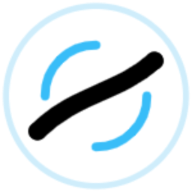
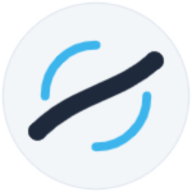
feat: update branding assets and metadata configuration
- Updated `logo.svg` with refined colors and styling.
- Replaced favicon and apple-touch-icon sources to use the SVG logo for better scalability.
- Added OpenGraph and Twitter metadata configuration including a preview image.
- Removed dark mode brightness/inversion filters from the logo in `page.tsx`.
- Updated various binary icon assets in the `public` directory.

Changed region(s): [[0.0, 0.0, 1.0, 1.0], [0.125, 0.25, 0.875, 0.75]]

diff --git a/app/[locale]/layout.tsx b/app/[locale]/layout.tsx
@@ -40,20 +40,34 @@ export async function generateMetadata({
   return {
     title: {
       template: "%s | Gratry Snow",
-      default: t('metadata_title'), 
+      default: t('metadata_title'),
     },
     description: t('metadata_desc'),
     keywords: ["snowboard", "gratry", "ground tricks", "flatland", "snowboarding", "平花", "滑雪", "單板"],
     icons: {
-      icon: '/gratry-snow/favicon.ico',
-      apple: '/gratry-snow/apple-touch-icon.png',
+      icon: '/gratry-snow/logo.svg',
+      apple: '/gratry-snow/logo.svg',
     },
     openGraph: {
       title: t('metadata_title'),
       description: t('metadata_desc'),
       type: "website",
       siteName: "Gratry Snow",
-    }
+      images: [
+        {
+          url: '/gratry-snow/og-image.svg', 
+          width: 1200,
+          height: 630,
+          alt: "Gratry Snow Preview",
+        },
+      ],
+    },
+    twitter: {
+      card: "summary_large_image",
+      title: t('metadata_title'),
+      description: t('metadata_desc'),
+      images: ['/gratry-snow/og-image.svg'],
+    },
   };
 }
 

diff --git a/app/[locale]/page.tsx b/app/[locale]/page.tsx
@@ -30,7 +30,7 @@ export default async function Home({
           alt="Gratry Snow Logo" 
           width={80} 
           height={80} 
-          className="mb-2 drop-shadow-md hover:scale-105 transition-transform duration-300 dark:brightness-0 dark:invert"
+          className="mb-2 drop-shadow-md hover:scale-105 transition-transform duration-300"
           priority // 首圖建議加上 priority 提升 LCP
         />
         <h1 className="text-4xl font-bold tracking-tight">Gratry Snow</h1>
